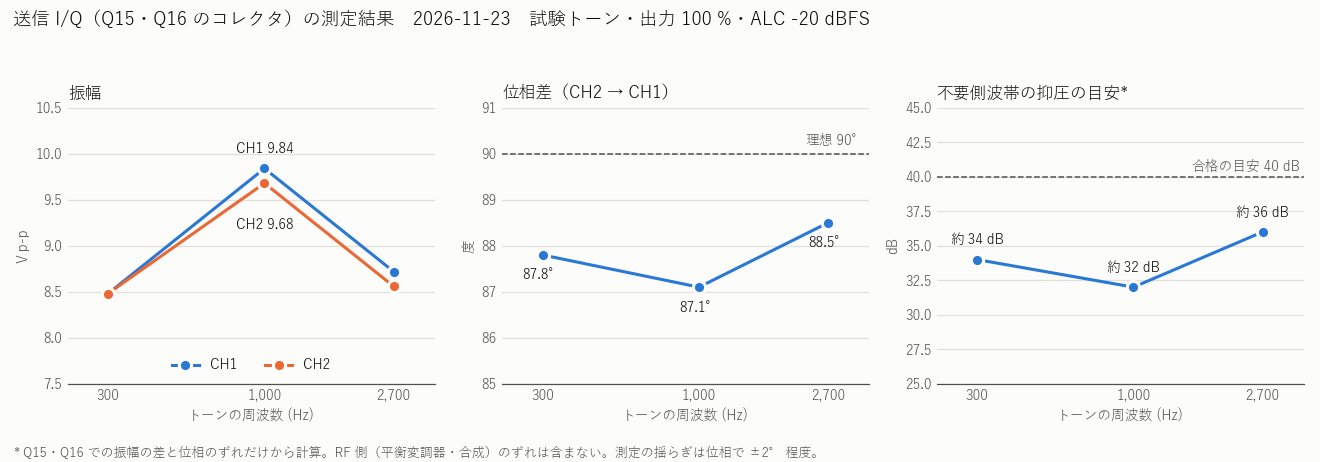
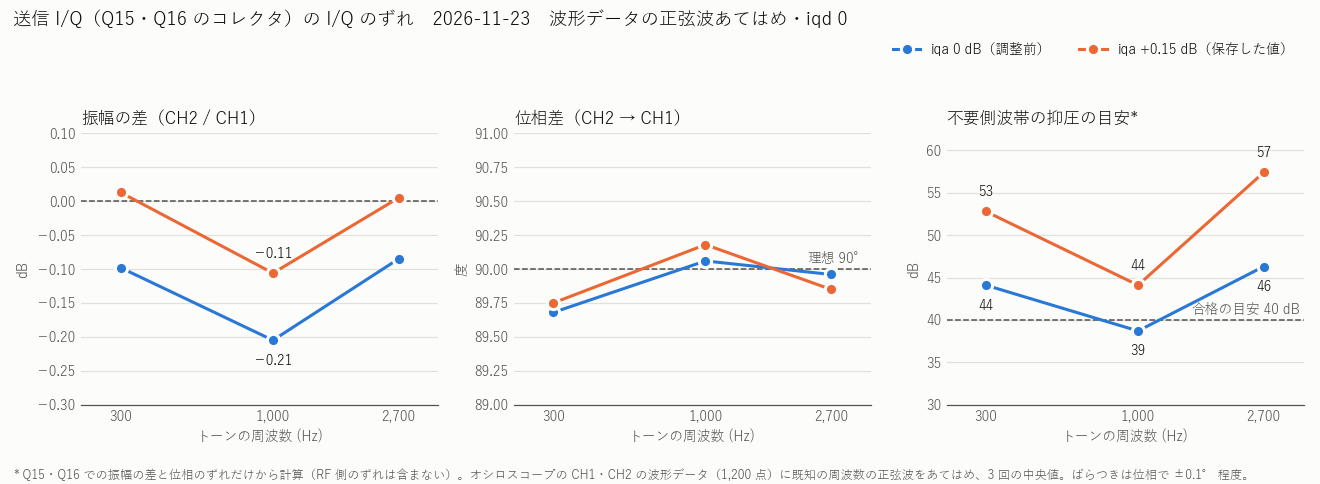
送信 I/Q の確認記録を正確な測定で作り直し、iqd・iqa の調整結果を追加 [skip ci]
- オシロスコープの位相の測定機能（RPH）は数度ずれて不正確だったので、波形データに
  正弦波をあてはめて測る方法（docs/tools/scope_iq_fit.py）に変えた。位相は 90°±0.3° 以内
- iqd を −4〜+4 µs で変えた結果（0 が最良）、iqa 0〜+0.2 dB の結果を追加
- iqd 0・iqa +0.15 dB を保存（抑圧の目安は 3 つの周波数とも 44 dB 以上）
- グラフ（manual/images/iq-sweep-chart.png）を作り直し、作るスクリプトを docs/tools に

diff --git a/docs/tools/make_iq_sweep_chart.py b/docs/tools/make_iq_sweep_chart.py
@@ -1,0 +1,78 @@
+import sys
+import matplotlib
+matplotlib.use("Agg")
+import matplotlib.pyplot as plt
+from matplotlib.ticker import FixedLocator, NullLocator, FixedFormatter
+
+plt.rcParams["font.family"] = ["Yu Gothic", "Meiryo", "MS Gothic", "sans-serif"]
+
+SURF = "#fcfcfb"; TXT = "#0b0b0b"; TXT2 = "#52514e"; GRID = "#e1e0d9"
+C1 = "#2a78d6"; C2 = "#eb6834"
+
+f = [300, 1000, 2700]
+# 波形データの正弦波あてはめ（iqd 0）
+amp0 = [-0.098, -0.205, -0.085]; ph0 = [89.68, 90.06, 89.96]; sup0 = [44.1, 38.7, 46.3]
+amp1 = [+0.013, -0.106, +0.005]; ph1 = [89.75, 90.18, 89.85]; sup1 = [52.8, 44.1, 57.4]
+
+fig, axes = plt.subplots(1, 3, figsize=(12, 4.4), facecolor=SURF)
+fig.suptitle("送信 I/Q（Q15・Q16 のコレクタ）の I/Q のずれ　2026-11-23　波形データの正弦波あてはめ・iqd 0",
+             color=TXT, fontsize=12, x=0.01, ha="left")
+
+def style(ax, title, ylabel):
+    ax.set_facecolor(SURF)
+    ax.set_xscale("log")
+    ax.set_xlim(220, 3700)
+    ax.xaxis.set_major_locator(FixedLocator(f))
+    ax.xaxis.set_major_formatter(FixedFormatter(["300", "1,000", "2,700"]))
+    ax.xaxis.set_minor_locator(NullLocator())
+    ax.set_xlabel("トーンの周波数 (Hz)", color=TXT2, fontsize=9)
+    ax.set_ylabel(ylabel, color=TXT2, fontsize=9)
+    ax.set_title(title, color=TXT, fontsize=11, loc="left")
+    ax.grid(axis="y", color=GRID, linewidth=0.8)
+    ax.set_axisbelow(True)
+    for s in ("top", "right", "left"):
+        ax.spines[s].set_visible(False)
+    ax.spines["bottom"].set_color(TXT2)
+    ax.tick_params(colors=TXT2, labelsize=9, length=0)
+
+def two(ax, y0, y1):
+    ax.plot(f, y0, color=C1, lw=2, marker="o", ms=8, mec=SURF, mew=2, label="iqa 0 dB（調整前）")
+    ax.plot(f, y1, color=C2, lw=2, marker="o", ms=8, mec=SURF, mew=2, label="iqa +0.15 dB（保存した値）")
+
+# 1. 振幅の差
+ax = axes[0]
+style(ax, "振幅の差（CH2 / CH1）", "dB")
+ax.axhline(0, color=TXT2, lw=1, ls="--")
+two(ax, amp0, amp1)
+ax.set_ylim(-0.3, 0.1)
+ax.annotate("−0.21", (1000, amp0[1]), xytext=(0, -16), textcoords="offset points", ha="center", color=TXT, fontsize=9)
+ax.annotate("−0.11", (1000, amp1[1]), xytext=(0, 10), textcoords="offset points", ha="center", color=TXT, fontsize=9)
+
+# 2. 位相差
+ax = axes[1]
+style(ax, "位相差（CH2 → CH1）", "度")
+ax.axhline(90, color=TXT2, lw=1, ls="--")
+ax.text(3600, 90.03, "理想 90°", color=TXT2, fontsize=9, ha="right", va="bottom")
+two(ax, ph0, ph1)
+ax.set_ylim(89, 91)
+
+# 3. 抑圧の目安
+ax = axes[2]
+style(ax, "不要側波帯の抑圧の目安*", "dB")
+ax.axhline(40, color=TXT2, lw=1, ls="--")
+ax.text(3600, 40.5, "合格の目安 40 dB", color=TXT2, fontsize=9, ha="right", va="bottom")
+two(ax, sup0, sup1)
+for x, y in zip(f, sup1):
+    ax.annotate(f"{y:.0f}", (x, y), xytext=(0, 10), textcoords="offset points", ha="center", color=TXT, fontsize=9)
+for x, y in zip(f, sup0):
+    ax.annotate(f"{y:.0f}", (x, y), xytext=(0, -16), textcoords="offset points", ha="center", color=TXT, fontsize=9)
+ax.set_ylim(30, 62)
+
+h, l = axes[0].get_legend_handles_labels()
+fig.legend(h, l, loc="upper right", bbox_to_anchor=(0.99, 0.94), ncol=2, frameon=False, fontsize=9, labelcolor=TXT)
+fig.text(0.01, 0.01, "* Q15・Q16 での振幅の差と位相のずれだけから計算（RF 側のずれは含まない）。"
+         "オシロスコープの CH1・CH2 の波形データ（1,200 点）に既知の周波数の正弦波をあてはめ、3 回の中央値。ばらつきは位相で ±0.1° 程度。",
+         color=TXT2, fontsize=8, ha="left")
+fig.tight_layout(rect=(0, 0.05, 1, 0.88))
+fig.savefig(sys.argv[1], dpi=110, facecolor=SURF)
+print("ok")

diff --git a/docs/tools/scope_iq_fit.py b/docs/tools/scope_iq_fit.py
@@ -1,0 +1,77 @@
+"""Fetch CH1/CH2 screen waveforms from RIGOL DS1202Z-E (SCPI port 5555) and fit a sine
+at a known frequency. Prints: f, vpp1, vpp2, amp_ratio_dB(ch2/ch1), phase(ch2 - ch1, deg).
+usage: scopefit.py <freq_hz> [repeats]
+"""
+import socket, sys, time
+import numpy as np
+
+HOST = "192.168.0.141"
+f0 = float(sys.argv[1])
+reps = int(sys.argv[2]) if len(sys.argv) > 2 else 3
+
+def cmd(s, q):
+    s.sendall((q + "\n").encode())
+
+def readline(s):
+    b = b""
+    while not b.endswith(b"\n"):
+        b += s.recv(1)
+    return b.decode().strip()
+
+def query(s, q):
+    cmd(s, q)
+    return readline(s)
+
+def block(s, q):
+    cmd(s, q)
+    h = s.recv(2)
+    while len(h) < 2:
+        h += s.recv(2 - len(h))
+    nd = int(chr(h[1]))
+    ln = b""
+    while len(ln) < nd:
+        ln += s.recv(nd - len(ln))
+    n = int(ln)
+    d = b""
+    while len(d) < n:
+        d += s.recv(n - len(d))
+    s.recv(1)  # trailing newline
+    return d
+
+def wave(s, ch):
+    cmd(s, f":WAV:SOUR CHAN{ch}")
+    cmd(s, ":WAV:MODE NORM")
+    cmd(s, ":WAV:FORM BYTE")
+    pre = query(s, ":WAV:PRE?").split(",")
+    xinc, xor, xref = float(pre[4]), float(pre[5]), float(pre[6])
+    yinc, yor, yref = float(pre[7]), float(pre[8]), float(pre[9])
+    raw = np.frombuffer(block(s, ":WAV:DATA?"), dtype=np.uint8).astype(float)
+    v = (raw - yor - yref) * yinc
+    t = (np.arange(len(v)) - xref) * xinc + xor
+    return t, v
+
+def fit(t, v):
+    w = 2 * np.pi * f0
+    A = np.column_stack([np.sin(w * t), np.cos(w * t), np.ones_like(t)])
+    (a, b, c), *_ = np.linalg.lstsq(A, v, rcond=None)
+    amp = np.hypot(a, b)
+    ph = np.degrees(np.arctan2(b, a))
+    return amp, ph
+
+s = socket.create_connection((HOST, 5555), timeout=10)
+res = []
+for _ in range(reps):
+    cmd(s, ":STOP")
+    time.sleep(0.2)
+    t1, v1 = wave(s, 1)
+    t2, v2 = wave(s, 2)
+    cmd(s, ":RUN")
+    a1, p1 = fit(t1, v1)
+    a2, p2 = fit(t2, v2)
+    d = (p2 - p1 + 180) % 360 - 180
+    res.append((2 * a1, 2 * a2, 20 * np.log10(a2 / a1), d))
+    time.sleep(0.6)
+s.close()
+r = np.array(res)
+m = np.median(r, axis=0)
+print(f"{f0:.0f} {m[0]:.3f} {m[1]:.3f} {m[2]:+.3f} {m[3]:+.2f} spread={np.ptp(r[:,3]):.2f}")

diff --git a/manual/iq-pdm-test.md b/manual/iq-pdm-test.md
@@ -43,24 +43,43 @@ TX12V ─ R62 4.7k ─ Q15 コレクタ（エミッタ R60 22Ω）
 |---|---|---|
 | ![500Hz](images/iq-500hz.jpg) | ![1kHz](images/iq-1khz-dc-ac.jpg) | ![1kHz](images/iq-1khz.jpg) |
 
-### 3.1 3 つの周波数での測定（オシロスコープの測定機能、LAN 経由）
+### 3.1 3 つの周波数での I/Q のずれと iqd・iqa の調整
 
-DS1202Z-E を LAN（SCPI、ポート 5555）でつなぎ、試験トーンを 300 Hz・1,000 Hz・2,700 Hz（I/Q を作るフィルタの範囲の両端と中央）に切り替えて、`:MEAS:ITEM?` で読んだ値です（両チャンネル AC 結合、平均化なし）。
+DS1202Z-E を LAN（SCPI、ポート 5555）でつなぎ、試験トーンを 300 Hz・1,000 Hz・2,700 Hz（I/Q を作るフィルタの範囲の両端と中央）に切り替えて測りました。出力 100 %、ALC -20 dBFS、両チャンネル AC 結合。
 
-| トーン | 周波数（実測） | CH1 振幅 | CH2 振幅 | 振幅の差 | 位相差（CH2 → CH1） | 90° からのずれ | 抑圧の目安* |
-|---|---|---|---|---|---|---|---|
-| 300 Hz | 301 Hz | 8.48 V p-p | 8.48 V p-p | 0 dB | 87.8° | 2.2° | 約 34 dB |
-| 1,000 Hz | 1,000 Hz | 9.84 V p-p | 9.68 V p-p | 0.14 dB | 87.1° | 2.9° | 約 32 dB |
-| 2,700 Hz | 2,717 Hz | 8.72 V p-p | 8.56 V p-p | 0.16 dB | 88.5° | 1.5° | 約 36 dB |
+**測り方**: オシロスコープの CH1・CH2 の画面の波形データ（各 1,200 点、`:WAV:DATA?`）を取り込み、既知のトーンの周波数の正弦波を最小二乗であてはめて振幅と位相を出す（[`docs/tools/scope_iq_fit.py`](../docs/tools/scope_iq_fit.py)、3 回の中央値、ばらつきは位相で ±0.1° 程度）。オシロスコープの位相の測定機能（`:MEAS:ITEM? RPH`）は、同じ波形で 85〜89° と数度ずれ、最大 4° ばらつくので、1° 以下の評価には使えない（最初にこれで測った「87〜89°」は誤り）。
+
+**iqd（I/Q の遅延補正）を変えたときの位相差（CH2 → CH1、iqa 0）**
+
+| iqd | 300 Hz | 1,000 Hz | 2,700 Hz |
+|---|---|---|---|
+| −4 µs | 90.15° | 91.56° | 93.82° |
+| −2 µs | 89.93° | 90.83° | 91.87° |
+| **0 µs** | **89.68°** | **90.06°** | **89.96°** |
+| +2 µs | 89.57° | 89.39° | 87.94° |
+| +4 µs | 89.29° | 88.66° | 86.07° |
+
+iqd 0 で 3 つとも 90° ± 0.3° 以内。iqd は 0 のままがよい（2,700 Hz で 1 µs あたり約 0.9°、計算どおり 360°×f×τ で動く）。
+
+**iqa（I/Q の利得補正）を変えたときの振幅の差（CH2 / CH1）と位相差（iqd 0）**
+
+| iqa | 300 Hz | 1,000 Hz | 2,700 Hz | 抑圧の目安*（300 / 1,000 / 2,700 Hz） |
+|---|---|---|---|---|
+| 0 dB | −0.10 dB / 89.68° | −0.21 dB / 90.06° | −0.09 dB / 89.96° | 44 / 39 / 46 dB |
+| +0.10 dB | −0.02 dB / 89.71° | −0.14 dB / 90.06° | −0.01 dB / 89.82° | — |
+| **+0.15 dB** | **+0.01 dB / 89.75°** | **−0.11 dB / 90.18°** | **+0.01 dB / 89.85°** | **53 / 44 / 57 dB** |
+| +0.20 dB | +0.08 dB / 89.66° | −0.06 dB / 90.06° | +0.06 dB / 89.78° | — |
 
 \* ここ（Q15・Q16 のコレクタ）の振幅の差と位相のずれだけから計算した不要側波帯の抑圧の目安。実際の送信では RF 側（平衡変調器・合成）のずれも加わる。
 
-![3 つの周波数の測定結果](images/iq-sweep-chart.png)
+![3 つの周波数の I/Q のずれ](images/iq-sweep-chart.png)
 
-- 3 つとも位相差 87〜89°、振幅の差 0.2 dB 以下で、クリップなし（XIAO の `dsp` のクリップも 0）。
-- 位相のずれ（1.5〜3°）は周波数に比例していないので、遅延の補正 `iqd` だけでは消し切れない成分も含む。
-- 測定の揺らぎは ±2° 程度ある（300 Hz の画面の表示は 85.2〜85.7°、8.56 / 8.32 V p-p）。詰めるときはオシロスコープの平均化を使う。
-- 振幅は 1 kHz が最大で、300 Hz・2,700 Hz は 1 割ほど小さい（PDM の後の RC とデジタルの I/Q フィルタの周波数特性）。
+- **iqd 0・iqa +0.15 dB・出力 10 % を `w` で保存した**（出力は試験の 100 % から 10 % に戻してから保存）。この点での抑圧の目安は 3 つの周波数とも 44 dB 以上。
+- 1,000 Hz だけ振幅の差が残るのは、1 kHz の振幅（約 9.8 V p-p）がコレクタで出せる上限に近く、片方がわずかにつぶれ始めているためと考えられる（300 Hz・2,700 Hz は約 8.4 V p-p）。
+- 振幅は 1 kHz が最大で、300 Hz・2,700 Hz は 1 割ほど小さい（PDM の後の RC とデジタルの I/Q フィルタの周波数特性）。どれもクリップなし（XIAO の `dsp` のクリップも 0）。
+- 送信回路を組んだあとは、RF 側のずれを VR3・VR4 と iqa で合わせる（iqd はたぶん 0 のまま）。
+
+オシロスコープの画面（測定機能の表示は参考。位相の値は上の理由で不正確）:
 
 | 300 Hz | 1,000 Hz | 2,700 Hz |
 |---|---|---|
